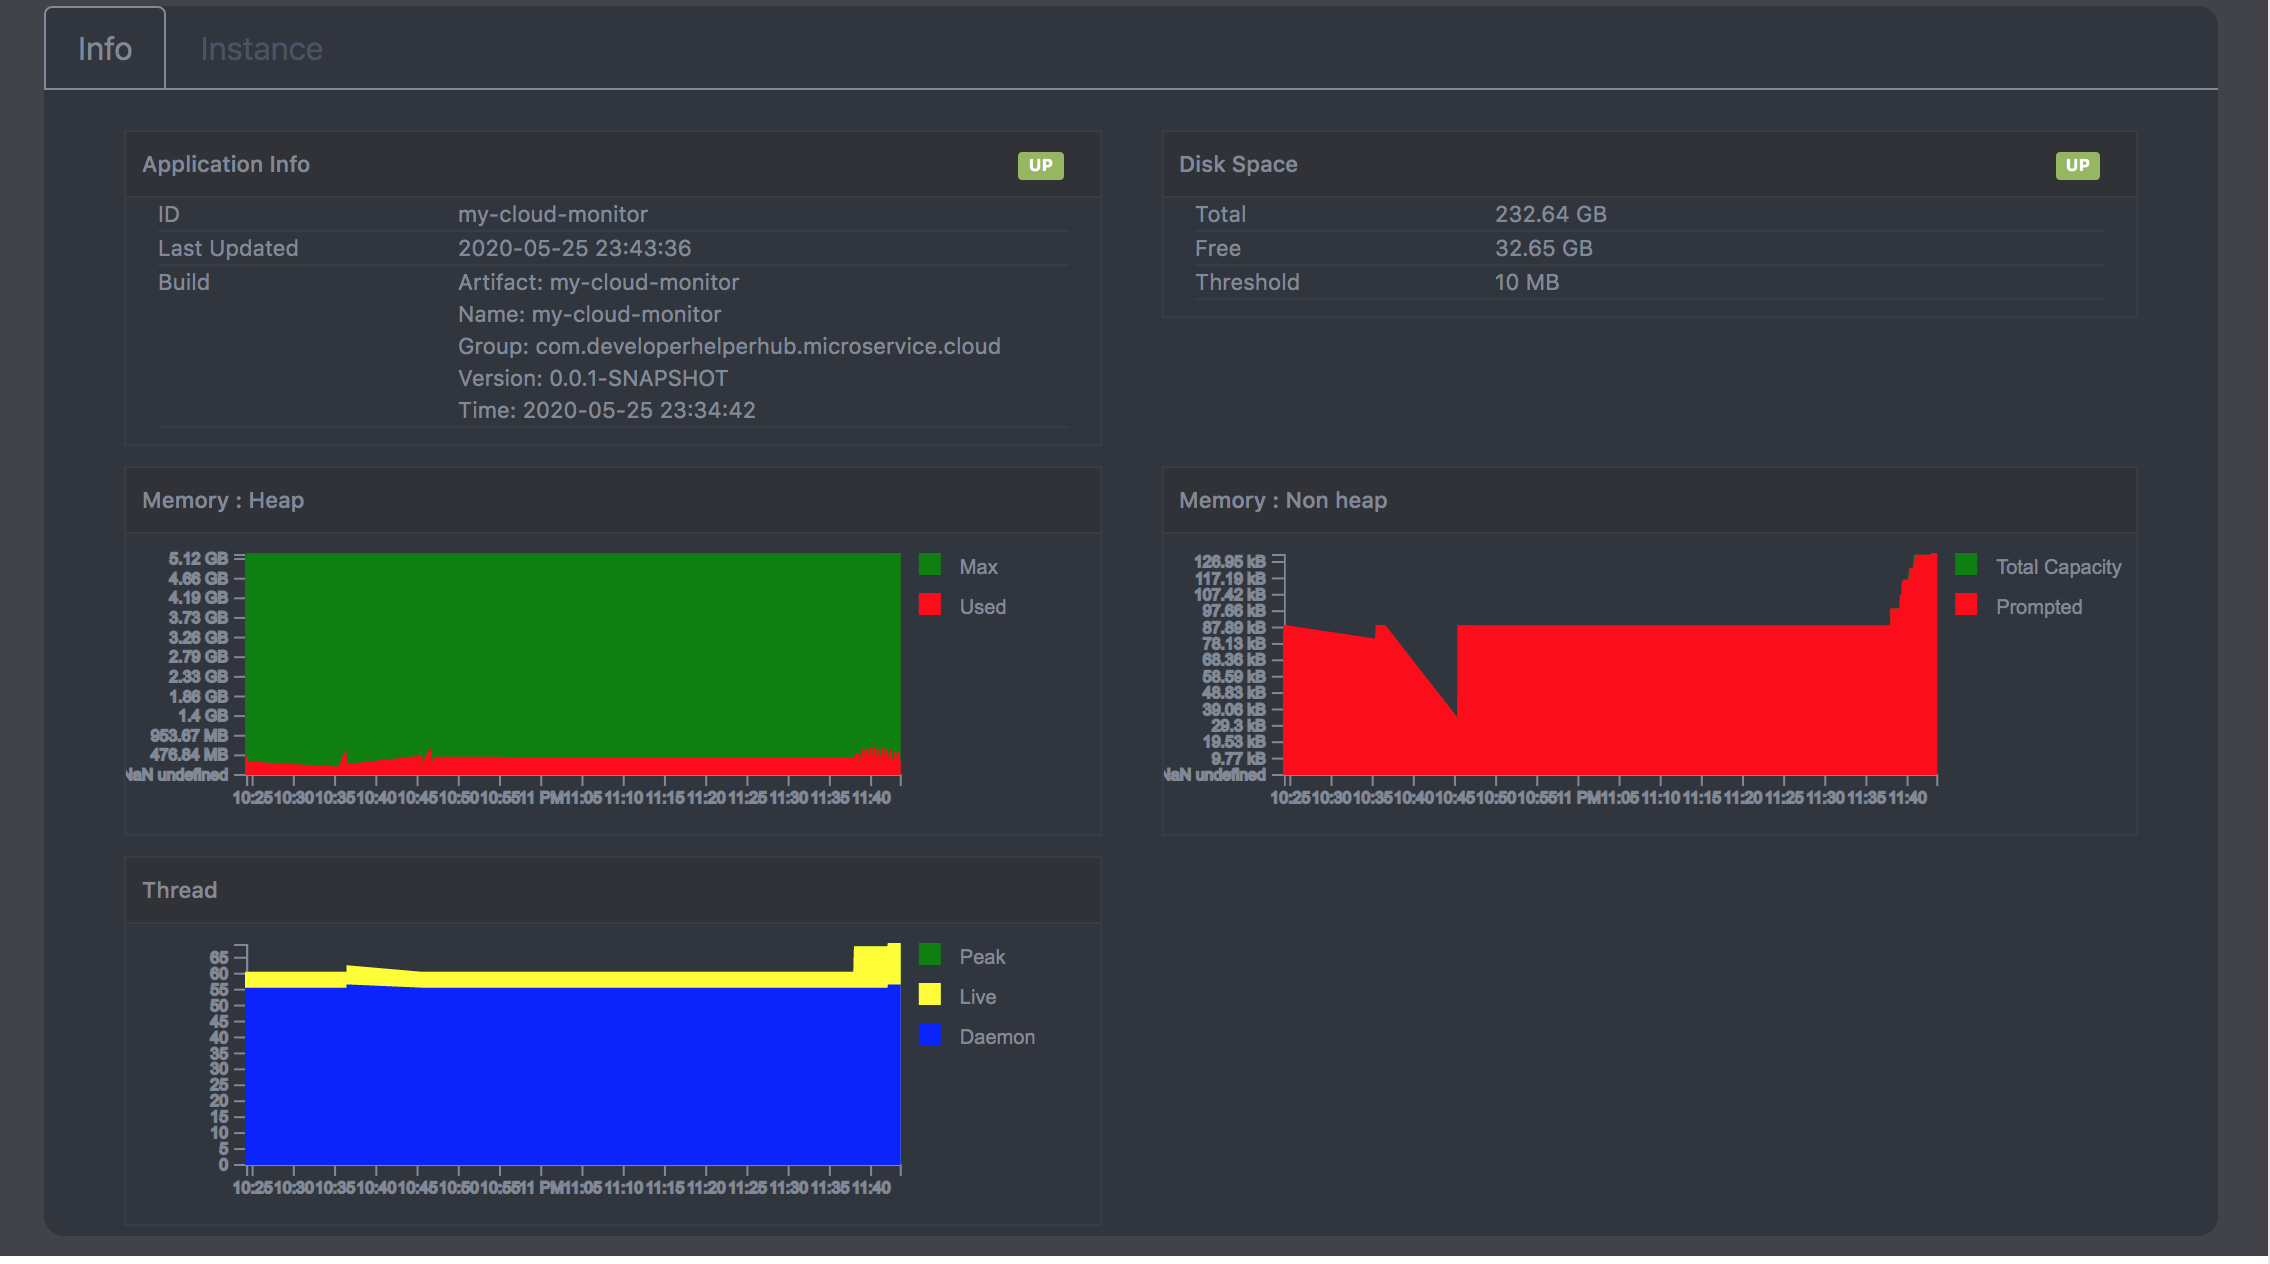
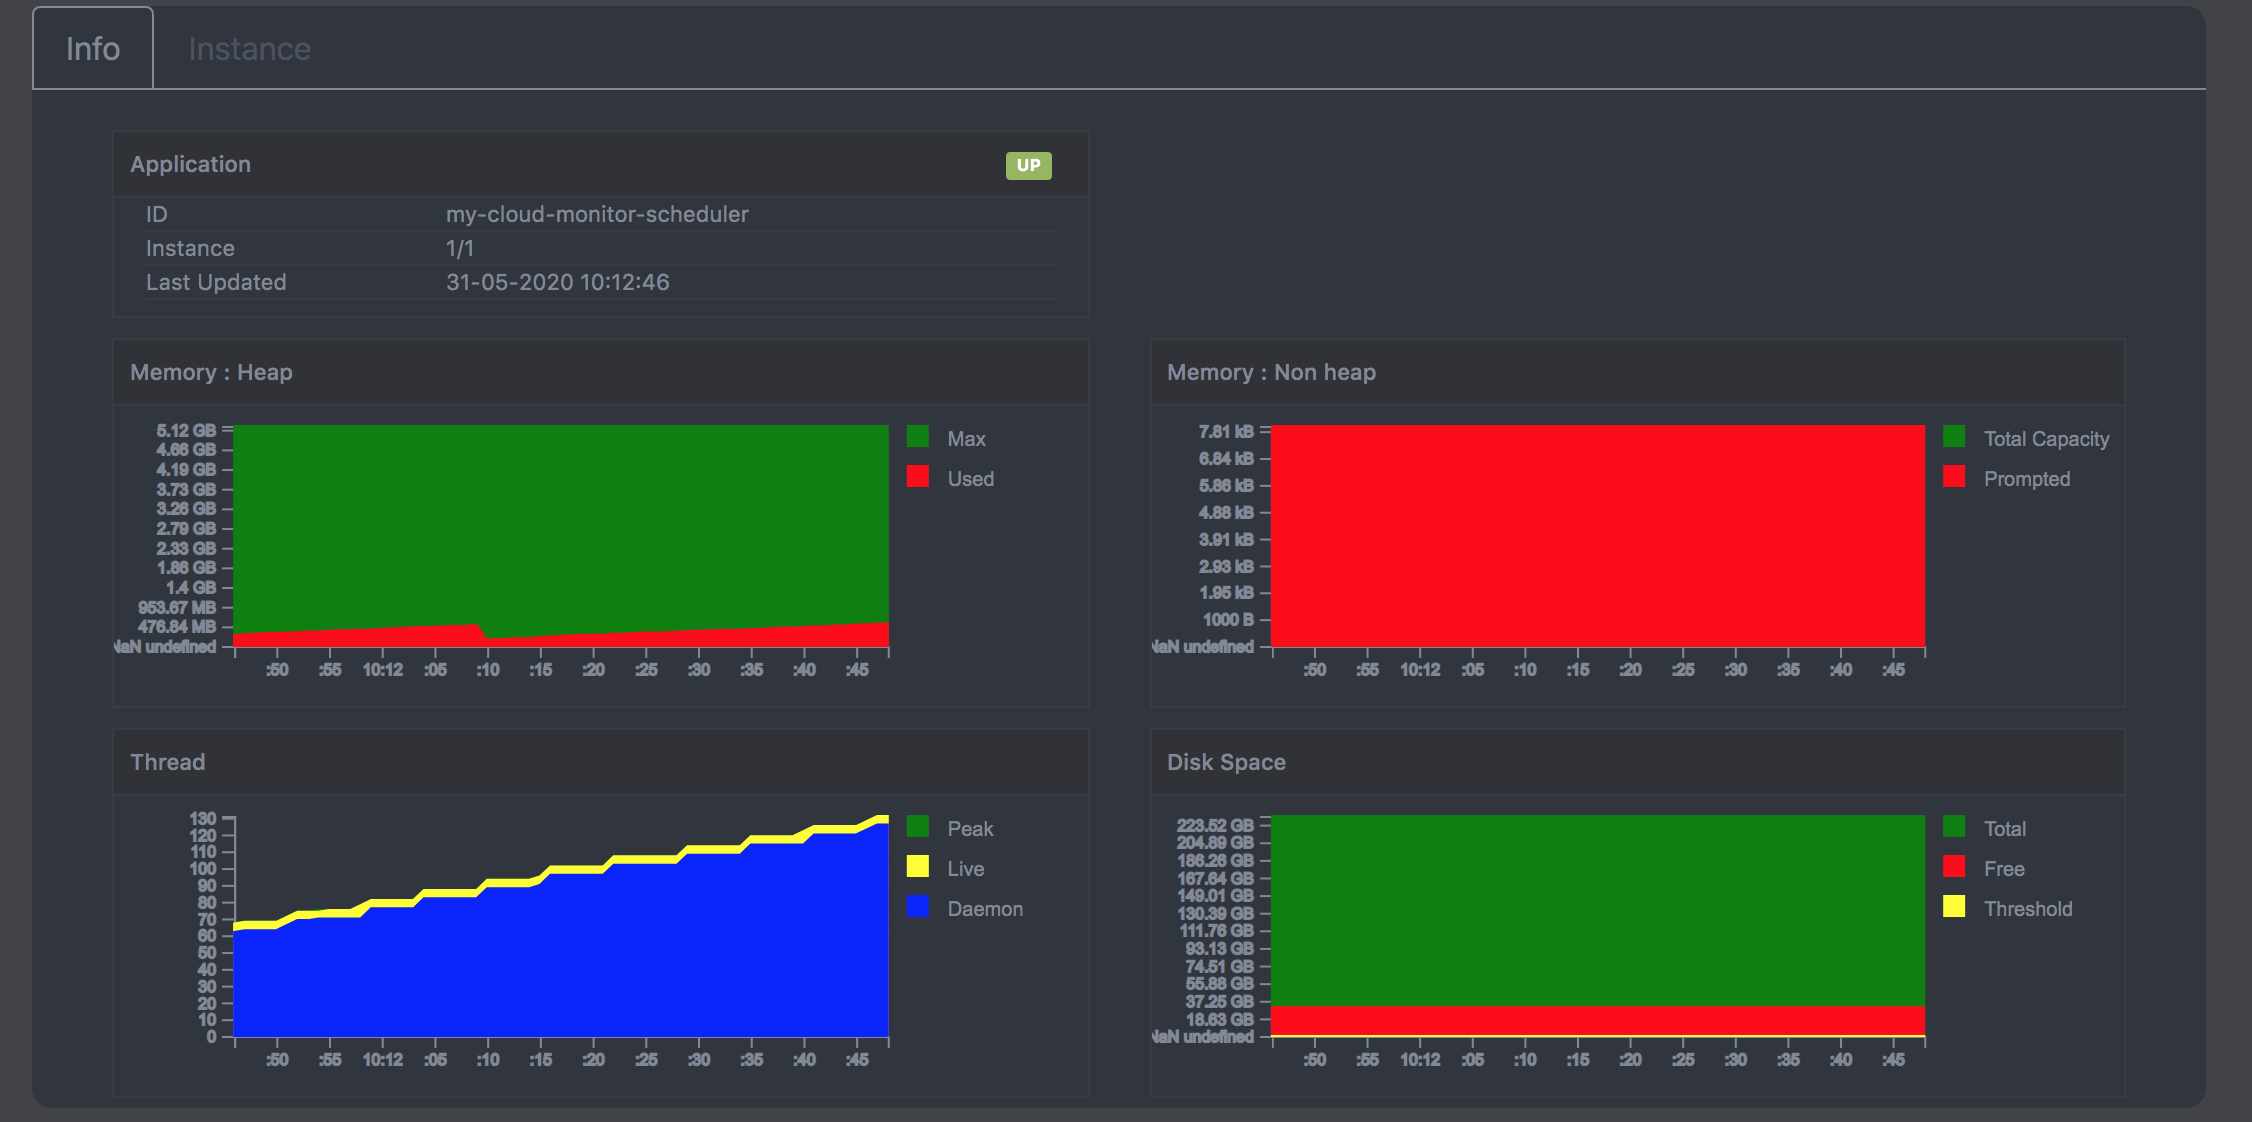
Selected application information shown in the info table, updated screen shots

diff --git a/my-cloud-dashboard/src/pages/MonitorPage.js b/my-cloud-dashboard/src/pages/MonitorPage.js
@@ -85,7 +85,10 @@ class MonitorPage extends React.Component {
             },
             selectedApplicationInfo: {
                 id: "",
-                status: "N/A"
+                status: "N/A",
+                instanceTotal: 0,
+                instanceRunning: 0,
+                lastUpdated: ""
             },
             applicationData: {
                 columnDefs: [
@@ -446,8 +449,14 @@ class MonitorPage extends React.Component {
                             return self.fileSizeFormat(d);
                         });
 
+                    selected.id = selectedApplication;
+                    selected.status = row[3];
+                    selected.instanceTotal = row[1];
+                    selected.instanceRunning = row[2];
+                    selected.lastUpdated = row[4];
+
                     self.setState({
-                        selectedApplication: selected
+                        selectedApplicationInfo: selected
                     })
                 }, function (err) {
                     console.log("Monitor Application " + selectedApplication + " Source Error : " + err.error);
@@ -655,6 +664,46 @@ class MonitorPage extends React.Component {
                                             </div>
                                         </div>
                                     </div> */}
+
+                                    <div class="row">
+                                        <div class="col-xxl-6 col-lg-6">
+                                            <div class="d-flex flex-column bd-highlight border info-box">
+
+                                                <div class="d-flex flex-row bd-highlight p-2 border-bottom item-head">
+                                                    <div class="bd-highlight pr-10 mr-auto">Application</div>
+                                                    <div class="bd-highlight pr-10"><Label class={statusLabelClass}> {selectedApplicationInfo.status} </Label></div>
+                                                </div>
+
+                                                <div class="bd-highlight">
+                                                    <div class="d-flex flex-row bd-highlight ml-3 mr-3 border-bottom item-body">
+                                                        <div class="d-flex flex-row bd-highlight">
+                                                            <div class="bd-highlight item-label">ID</div>
+                                                            <div class="bd-highlight">{selectedApplicationInfo.id}</div>
+                                                        </div>
+                                                    </div>
+
+                                                    <div class="d-flex flex-row bd-highlight ml-3 mr-3 border-bottom item-body">
+                                                        <div class="d-flex flex-row bd-highlight">
+                                                            <div class="bd-highlight item-label">Instance</div>
+                                                            <div class="bd-highlight">{selectedApplicationInfo.instanceRunning}/{selectedApplicationInfo.instanceTotal}</div>
+                                                        </div>
+                                                    </div>
+
+                                                    <div class="d-flex flex-row bd-highlight mb-2 ml-3 mr-3 border-bottom item-body">
+                                                        <div class="d-flex flex-row bd-highlight">
+                                                            <div class="bd-highlight item-label">Last Updated</div>
+                                                            <div class="bd-highlight">{selectedApplicationInfo.lastUpdated}</div>
+                                                        </div>
+                                                    </div>
+
+
+                                                </div>
+
+                                            </div>
+                                        </div>
+                                        <div class="col-xxl-6 col-lg-6">
+                                        </div>
+                                    </div>
                                     <div class="row">
                                         <div class="col-xxl-6 col-lg-6">
                                             <div class="d-flex flex-column bd-highlight border info-box">
